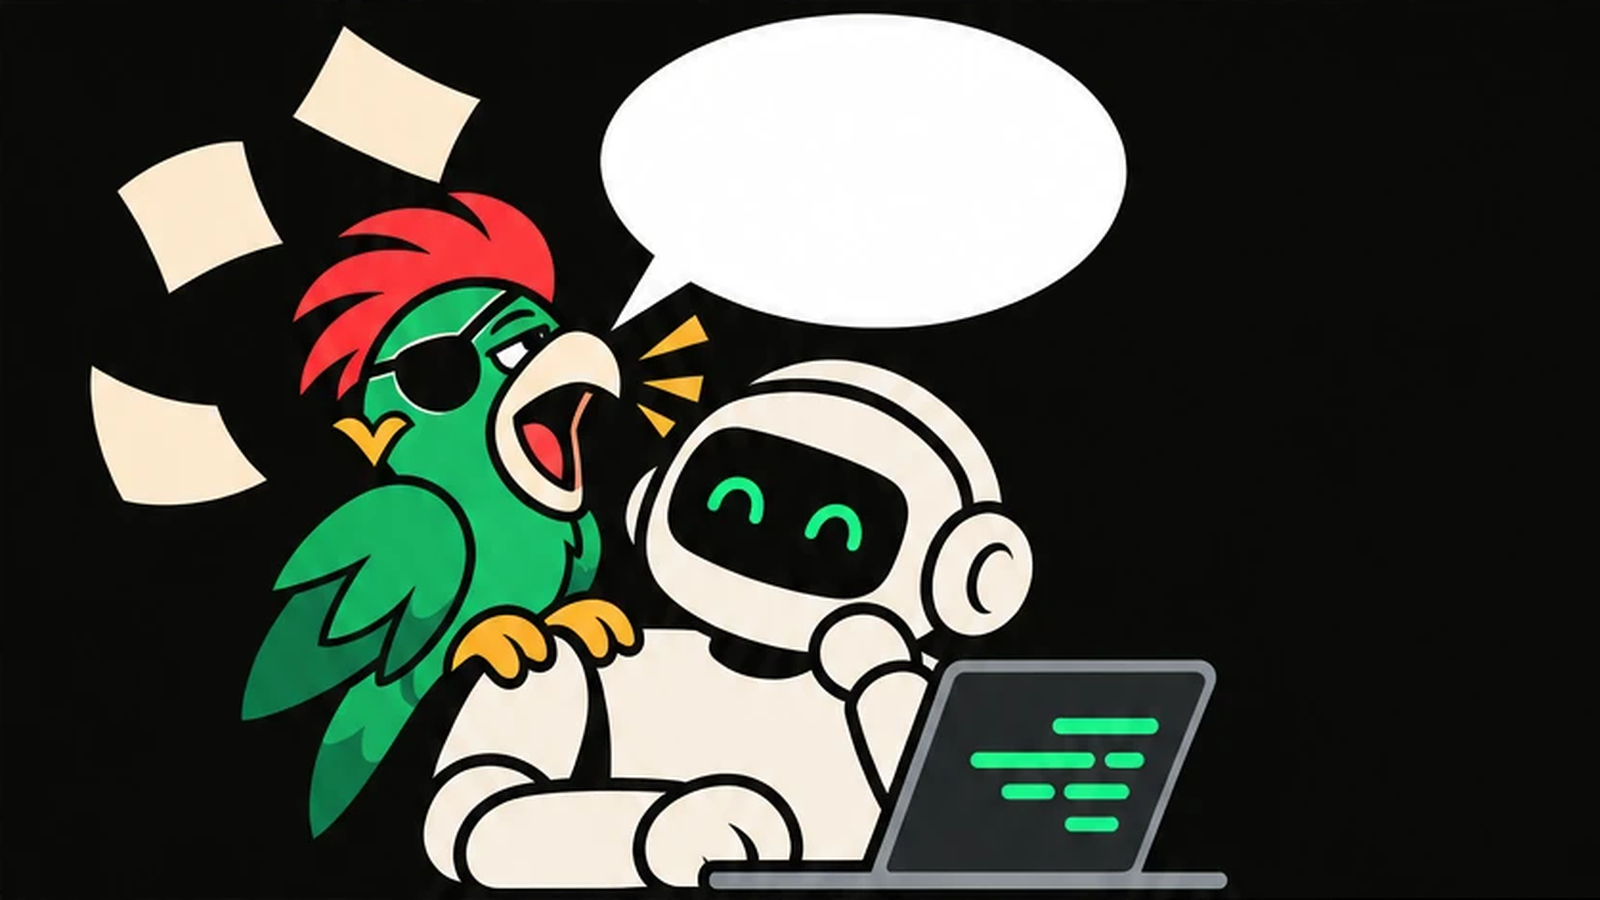
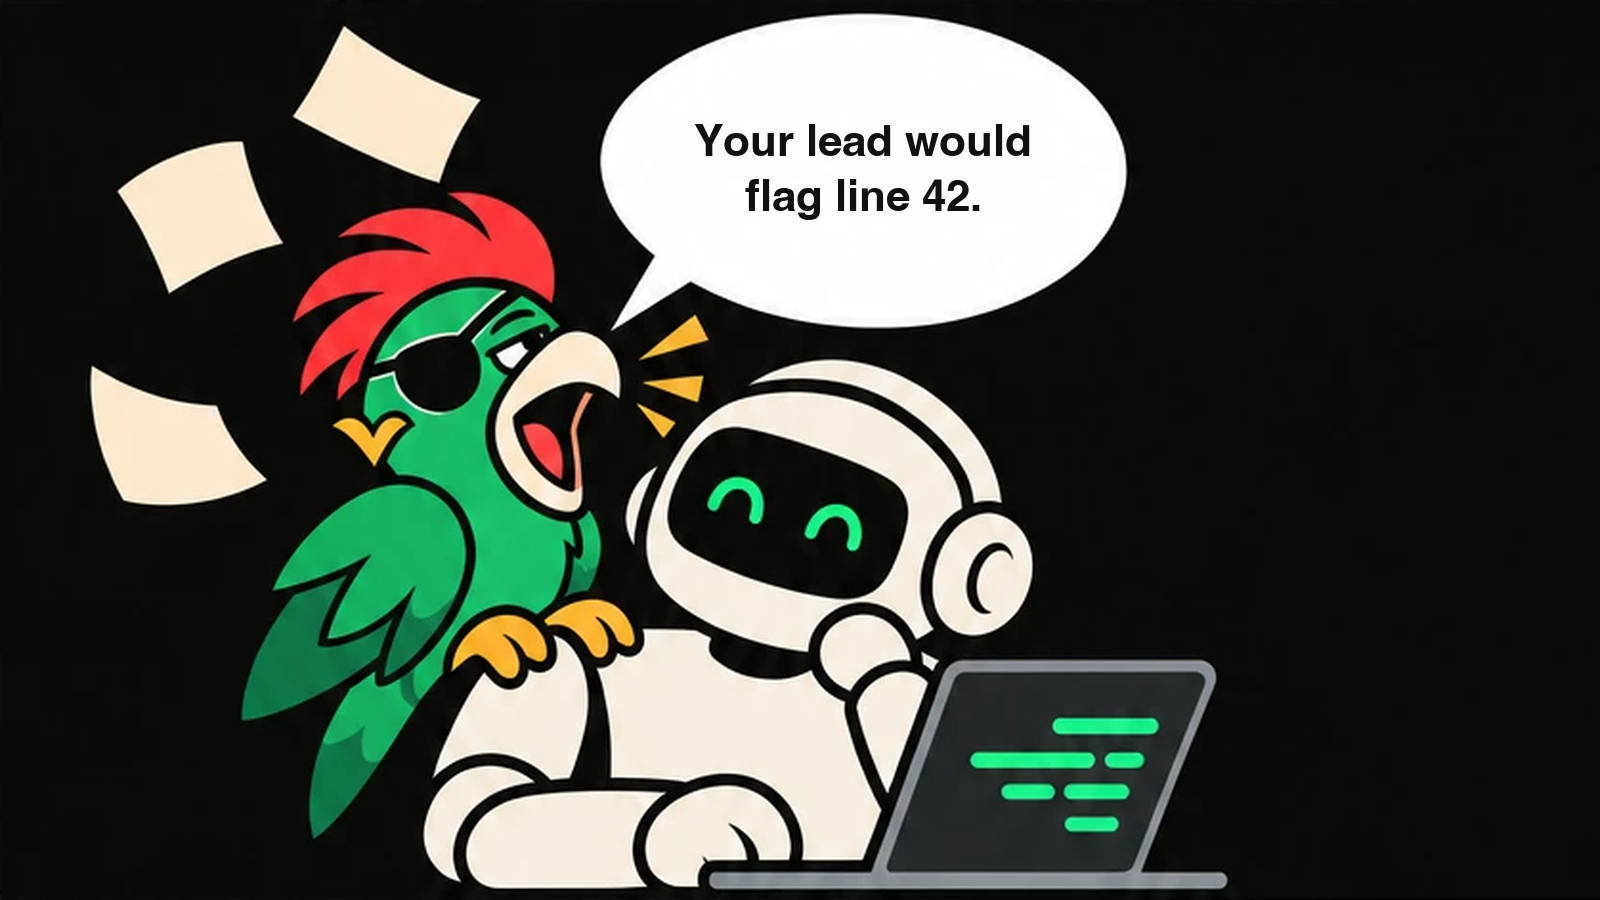
README shows the whole parrot set; the scroll and bubble say something
The scroll's checklist reads "add a test?", "nit: naming" and "handle
errors", and Polly's speech bubble says "Your lead would flag line 42."
in the launch post and social preview. The text is drawn by
branding/crop-sheet.py at output size, so it stays sharp. The README
adds the robot scene under Ideas and the two stickers beside What you
get and How it works.

Changed region(s): [[0.4375, 0.1244, 0.6562, 0.2489]]

diff --git a/branding/crop-sheet.py b/branding/crop-sheet.py
@@ -1,7 +1,8 @@
+import math
 import sys
 from pathlib import Path
 
-from PIL import Image, ImageChops, ImageDraw
+from PIL import Image, ImageChops, ImageDraw, ImageFont
 
 src, out = Path(sys.argv[1]), Path(sys.argv[2]); out.mkdir(parents=True, exist_ok=True)
 im = Image.open(src).convert('RGB')
@@ -27,12 +28,64 @@ def rounded(img, r=0.22, ss=4):
 def pad_to(p, ratio):  # widen with background on the left
     w,h = p.size; nw = round(h*ratio); c = Image.new('RGB',(nw,h),BG); c.paste(p,(nw-w,0)); return c
 for n,p in [('P1',P1),('P2',P2),('P3',P3),('P4',P4),('P5',P5)]: print(n, p.size, bbox(p))
+# Text added on top of the generated art, drawn at output size so it stays sharp.
+INK = (17, 18, 15)
+MONO = ('/System/Library/Fonts/Menlo.ttc', 1)       # Menlo Bold
+SANS = ('/System/Library/Fonts/Helvetica.ttc', 1)   # Helvetica Bold
+CHECKLIST = ['add a test?', 'nit: naming', 'handle errors']
+BUBBLE = ['Your lead would', 'flag line 42.']
+SP = im.load()
+def cream(p): return p[0] > 200 and p[1] > 185 and p[2] > 150 and p[0] - p[2] > 12
+def fit(spec, lines, w, h, gap=0.25):
+    size = 200
+    while size > 6:
+        f = ImageFont.truetype(spec[0], size, index=spec[1])
+        lw = max(f.getlength(t) for t in lines); lh = size * (len(lines) + gap * (len(lines) - 1))
+        if lw <= w and lh <= h: return f
+        size -= 1
+    return f
+def stamp(img, text, font, cx, cy, angle):
+    w = int(font.getlength(text)) + 8; h = int(font.size * 1.4)
+    layer = Image.new('RGBA', (w, h), (0, 0, 0, 0))
+    ImageDraw.Draw(layer).text((w / 2, h / 2), text, font=font, fill=INK, anchor='mm')
+    layer = layer.rotate(-angle, resample=Image.BICUBIC, expand=True)
+    img.paste(layer, (round(cx - layer.width / 2), round(cy - layer.height / 2)), layer)
+def checklist(img, T, k):
+    # the three comment boxes on the scroll, in sheet pixels (found by colour)
+    for (x0, y0, x1, y1), text in zip([(621, 165, 752, 210), (596, 230, 740, 278), (560, 297, 717, 344)], CHECKLIST):
+        green = [x for y in range(y0, y1) for x in range(x0, x1) if SP[x, y][1] > SP[x, y][0] + 60 and SP[x, y][1] > 90]
+        right = min(green) - 5
+        def mid(x, y0=y0, y1=y1):
+            ys = [y for y in range(y0 - 3, y1 + 4) if cream(SP[x, y])]
+            return (ys[0] + ys[-1]) / 2, ys[-1] - ys[0]
+        # the boxes lean with the scroll, so start the text past the furthest-right left edge
+        band = range((3 * y0 + y1) // 4, (y0 + 3 * y1) // 4)
+        left = max(next(x for x in range(x0, x1) if cream(SP[x, y])) for y in band) + 6
+        (ya, ha), (yb, _) = mid(left), mid(right)
+        angle = math.degrees(math.atan2(yb - ya, right - left))
+        font = fit(MONO, [text], (right - left) * k * 0.97, ha * k * 0.42)
+        tw = font.getlength(text)
+        ax, ay = T(left, ya); c = math.cos(math.radians(angle)); s_ = math.sin(math.radians(angle))
+        stamp(img, text, font, ax + tw / 2 * c, ay + tw / 2 * s_, angle)
+def bubble(img, T, k):
+    x0, y0, x1, y1 = 326, 398, 599, 560   # white bubble, sheet pixels
+    widths = {y: sum(1 for x in range(x0, x1) if min(SP[x, y]) > 235) for y in range(y0, y1)}
+    big = [y for y, n in widths.items() if n > 0.5 * max(widths.values())]
+    cx, cy = T((x0 + x1) / 2, (big[0] + big[-1]) / 2)
+    font = fit(SANS, BUBBLE, (x1 - x0) * k * 0.66, (big[-1] - big[0]) * k * 0.5)
+    lh = font.size * 1.25
+    for i, line in enumerate(BUBBLE):
+        stamp(img, line, font, cx, cy + (i - (len(BUBBLE) - 1) / 2) * lh, 0)
 # banner 3:1, padded on the empty left
-pad_to(P1, 3).resize((2400,800), L).save(out/'banner.png', optimize=True)
-# social preview 2:1, GitHub size, keep left content
-P2.crop((0,0,942,471)).resize((1280,640), L).save(out/'social-preview.png', optimize=True)
-# launch post 16:9
-P2.crop((0,0,837,471)).resize((1600,900), L).save(out/'launch-post.png', optimize=True)
+wide = pad_to(P1, 3); k = 2400 / wide.width; off = wide.width - P1.width
+banner = wide.resize((2400, 800), L)
+checklist(banner, lambda x, y: ((x - 11 + off) * k, (y - 11) * k), k)
+banner.save(out/'banner.png', optimize=True)
+# social preview 2:1, GitHub size, and launch post 16:9, both from the robot panel
+for name, cw, size in [('social-preview', 942, (1280, 640)), ('launch-post', 837, (1600, 900))]:
+    k = size[0] / cw; img = P2.crop((0, 0, cw, 471)).resize(size, L)
+    bubble(img, lambda x, y, k=k: ((x - 11) * k, (y - 390) * k), k)
+    img.save(out/f'{name}.png', optimize=True)
 # logo and avatar
 head = square(P3, pad=0.09)
 head.save(out/'avatar.png', optimize=True)

diff --git a/README.md b/README.md
@@ -25,6 +25,8 @@ No install and no API key. It reads public GitHub data, and nothing is posted an
 
 ## What you get
 
+<img src="assets/brand/sticker-treasure.png" alt="Polly sitting on a treasure chest full of review comments" width="150" align="right">
+
 A `SKILL.md` your agent loads on its own whenever you ask for a review in that person's style:
 
 - **What to look at, in their order.** Tests, errors, naming, correctness, clarity and so on, ranked by how often they actually raise each one, with real quotes.
@@ -44,7 +46,13 @@ It is installed for **Claude Code** (`~/.claude/skills`) and, when you have it, 
 - The reviewer you learned the most from.
 - Yourself. See what your own reviews say about you.
 
+<p align="center">
+  <img src="assets/brand/launch-post.png" alt="Polly on a coding agent's shoulder, squawking: Your lead would flag line 42." width="620">
+</p>
+
 ## How it works
+
+<img src="assets/brand/sticker-squawk.png" alt="Polly squawking with wings spread" width="150" align="right">
 
 1. Finds pull requests the user reviewed or commented on, excluding their own (GitHub search).
 2. Reads their inline review comments, review summaries and thread comments on those pull requests.
